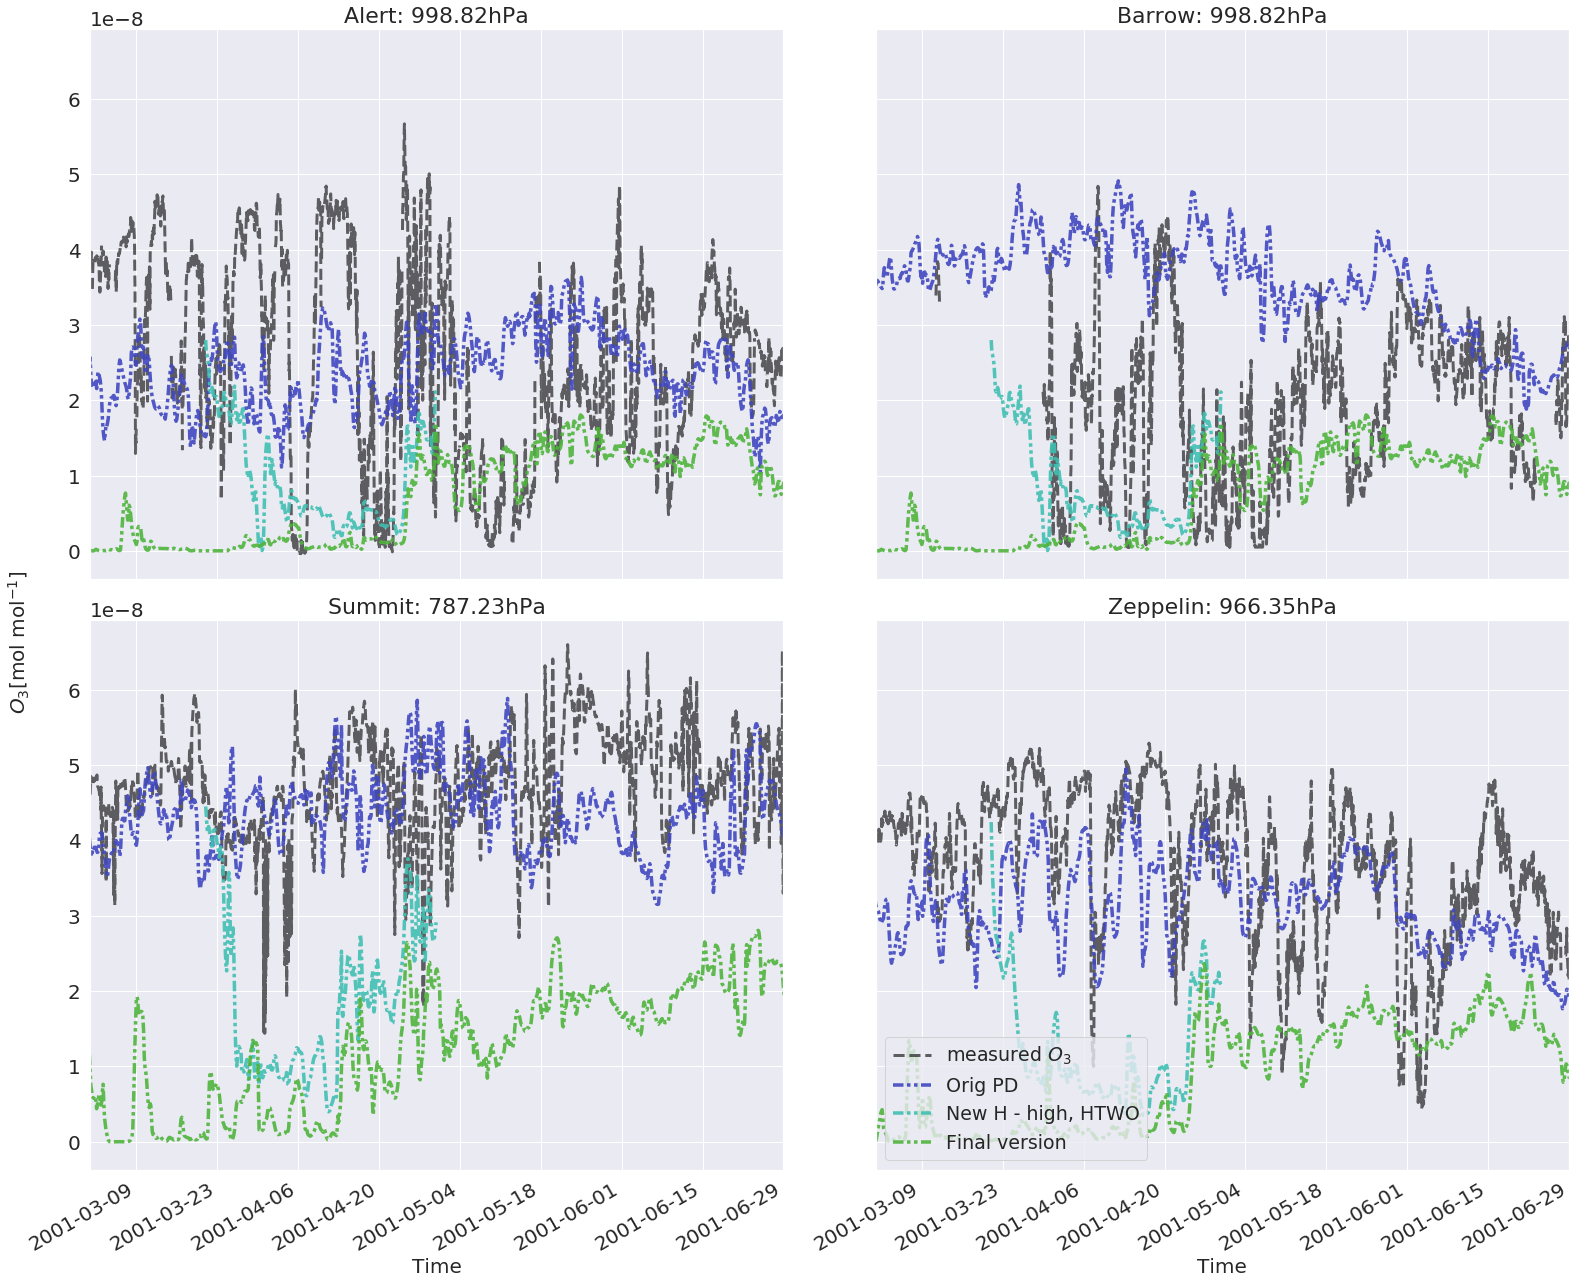
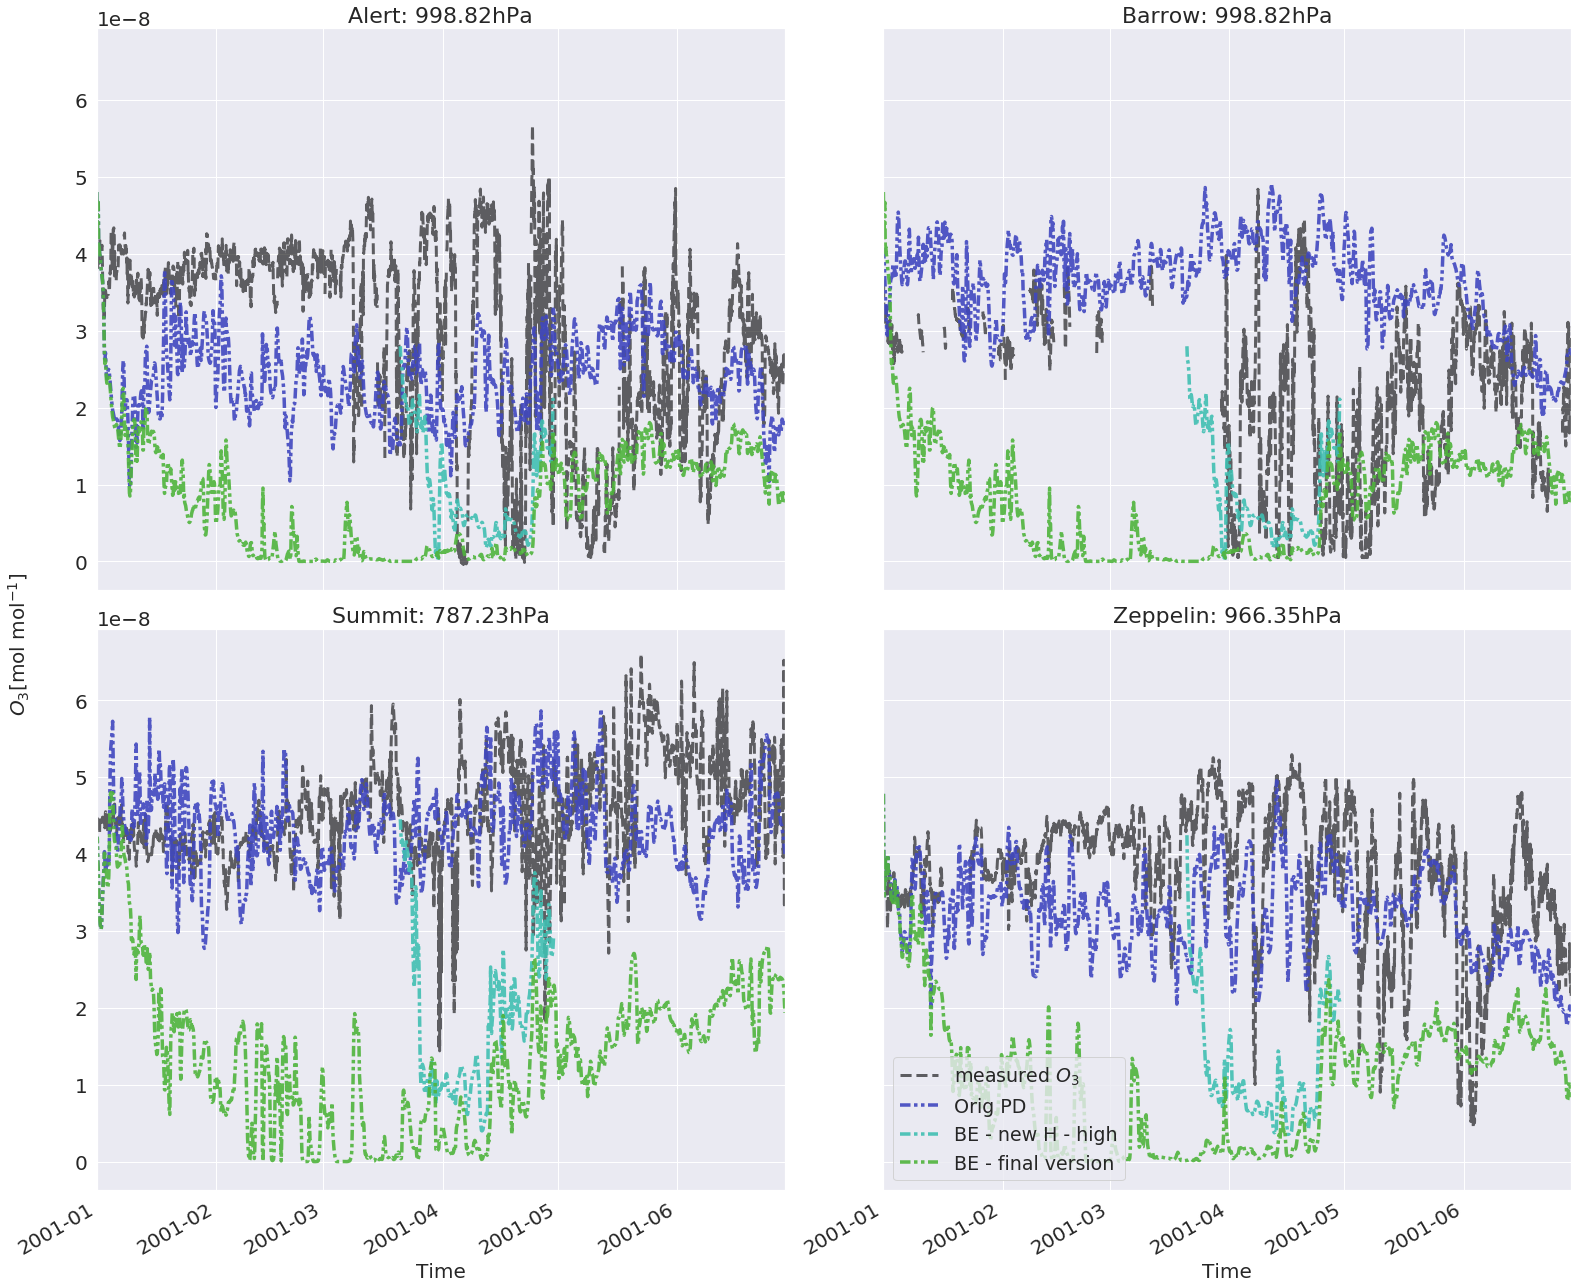
18/5/20 - nummer 2

diff --git a/Chapter6_Results/Results.tex b/Chapter6_Results/Results.tex
@@ -105,7 +105,7 @@ Figure \ref{fig:ozone_noCl_step2} contains results from different attempts to bo
 
 \medskip
 
-Figure \ref{fig:vertHBr_newRestart} (see Appendix \ref{app:CTM3_dev}) contains the resulting \chem{HBr}-column above Alert, Barrow, Summit and Zeppelin up to approximately $600$ hPa. The mixing ratio is on the order of $25 - 250$ ppt maximum. The higher concentrations appear to be constrained to the lower layers of the troposphere to various extents. In the lowest layer, Figure \ref{fig:polarHBr_newRestart} (see Appendix \ref{app:CTM3_dev}) shows that the concentrations are on the order of $7.5\times10^{-7} - 1.5\times10^{-6}$gm$^{-3}$. Seen in relation with Figure \ref{fig:polarHOBr_newRestart} (see Appendix \ref{app:CTM3_dev}), \ref{fig:polarHBr_newRestart} (see Appendix \ref{app:CTM3_dev}) is very anti-correlated. 
+Figure \ref{fig:vertHBr_newRestart} (see Appendix \ref{app:CTM3_dev}) contains the resulting \chem{HBr}-column above Alert, Barrow, Summit and Zeppelin up to approximately $600$ hPa. The mixing ratio is on the order of $25 - 250$ ppt maximum. The higher concentrations appear to be constrained to the lower layers of the troposphere to various extents. In the lowest layer, Figure \ref{fig:polarHBr_newRestart} (see Appendix \ref{app:CTM3_dev}) shows that the concentrations are on the order of $7.5\times10^{-7} - 1.5\times10^{-6}$gm$^{-3}$. Seen in relation with Figure \ref{fig:polarHOBr_newRestart}, \ref{fig:polarHBr_newRestart} (see Appendix \ref{app:CTM3_dev}) is very anti-correlated. 
 
 
 
@@ -113,6 +113,7 @@ Figure \ref{fig:vertHBr_newRestart} (see Appendix \ref{app:CTM3_dev}) contains t
 
 The polar \chem{BrO}-column depicted in Figure \ref{fig:polarBro_newRestart} shows a \acrshort{vcd} on the order of $10^7 \text{molecules }$ cm$^{-2}$. 
 
+\clearpage
 \subsubsection{Hard-Coding Photodissociation and Adjusting the Henry'Law Coefficient}\label{sec:res_step3}
 
 Figure \ref{fig:ozone_2001_step3} contains the modelled results from four new tests, whereas the original CTM3-run and the New Restart run was maintained from the previous section. Firstly, the Hard-coded P test was performed by hard-coding the photodissociation rates in \texttt{pchemc\_ij.f90}. In addition to this, two reactions were added in an attempt to better cycle the \chem{HOBr} and \chem{HBr} to avoid the anti-correlation seen in Figures \ref{fig:polarHBr_newRestart}-\ref{fig:polarHOBr_newRestart}:  
@@ -167,18 +168,12 @@ Figure \ref{fig:ozone_2001_step3} shows that the new tests ozone produce a lower
 
 \medskip
 
-Figure \ref{fig:vertHBr_HTWO_step3} contains the vertical column of the \chem{HBr} mixing ratio at \texttt{HTWO} resolution. The mixing ratio remains around $3\times10^{-10}$ mol mol$^{-1}$ (300 ppt) for both the tests. Likewise, Figure \ref{fig:polarHBr_HTWO_step3} contains concentrations of \chem{HBr} on the order of $6\times10^{-6} $g m$^{-3}$. The concentration of \chem{HOBr} is shown in Figure \ref{fig:polarHOBr_HTWO_step3}. The same anti-correlation is shown between \chem{HBr} and \chem{HOBr} as in the previous section. 
-
-
-
+Figure \ref{fig:vertHBr_HTWO_step3} (see Appendix \ref{app:CTM3_dev}) contains the vertical column of the \chem{HBr} mixing ratio at \texttt{HTWO} resolution. The mixing ratio remains around $3\times10^{-10}$ mol mol$^{-1}$ (300 ppt) for both the tests. Likewise, Figure \ref{fig:polarHBr_HTWO_step3} (see Appendix \ref{app:CTM3_dev}) contains concentrations of \chem{HBr} on the order of $6\times10^{-6} $g m$^{-3}$. The concentration of \chem{HOBr} is shown in Figure \ref{fig:polarHOBr_HTWO_step3} (see Appendix \ref{app:CTM3_dev}). The same anti-correlation is shown between \chem{HBr} and \chem{HOBr} as in the previous section. 
 
 \medskip
 
 The \chem{BrO} \acrshort{vcd} is shown in Figure \ref{fig:polarBrO_HTWO_step3}. The  \acrshort{vcd} now has a maximum of about $3\times10^8$ molecules cm$^{-2}$. 
 
-
-
-\clearpage
 \subsubsection{Changing Henry's law coefficient and photodissociation of \chem{HOBr}}\label{sec:res_step4}
 
 Due to issues regarding making a final production run (i.e. running the CTM3 for 6 months) (the problems and discussion concerning this are outlined in the Discussion Section \ref{sec:disc_step4}), Branch \ref{def:BE_PD_noCl} was altered yet again with a new Henry's law constant for the wet deposition of \chem{HBr} taken from \cite{Sander99}: 
@@ -198,7 +193,7 @@ This branch was initialized with the restart file provided from \cite{StefaniePe
 
 \medskip
 
-The resulting ozone mixing ratio at the four stations can be seen in Figure \ref{fig:ozone_2001_step4}. The black and blue line represents the measured ozone and the results from the original CTM3, respectively. The turquoise line represents the result maintained from the section above, which was ran at \texttt{HTWO}-resolution and was supposed to be the basis for the final production run. Finally, the green line represents the actual production run, in which the differences are explained above. In the first time period, the ozone mixing ratio produced by the final version is quite a lot lower than the observations. Toward the end of April, the content seems to stabilize more with mixing ratios comparable to measurements at Alert and Barrow, and to some extents at Zeppelin, but much lower than what's measured at Summit. 
+The resulting ozone mixing ratio at the four stations can be seen in Figure \ref{fig:ozone_2001_step4}. The black and blue line represents the measured ozone and the results from the original CTM3, respectively. The turquoise line represents the result maintained from the section above, which was ran at \texttt{HTWO}-resolution and was supposed to be the basis for the final production run. Finally, the green line represents the actual production run, in which the differences are explained above. The final version initially produces mixing ratios comparable to both the original CTM3 and the observations. Over the course of February to mid-April, however, the ozone mixing ratio produced by the final version is quite a lot lower than the observations. Towards the end of April, the content seems to stabilize more with mixing ratios comparable to measurements at Alert and Barrow, and to some extents at Zeppelin, but much lower than what's measured at Summit. 
 
 
 \input{Chapter6_Results/images/ozone_2001_step4}
@@ -283,11 +278,22 @@ In Figure \ref{fig:polarBrO_step4}, the resulting  \chem{BrO}-\acrshort{vcd} is 
 %\subsubsection{Test at HTWO}
 
 %This was with both hard-coded photodissosiation rates and higher Henry coefficient C3RUN\_BE\_HTWO\_HX\_HDP\_MarchApril
+\clearpage
 
 \section{Analysis of the Final Version of the Halogen Branch}\label{sec:res_final_Version}
 
-\input{Chapter6_Results/images/ozone_2001_step5}
+This section contains the analysis of the final version of the halogen branch (Branch \ref{def:BE_PD_noCl} presented in Section \ref{sec:res_step4} above)(from now on called the BE-branch) and the original CTM3-branch (Branch \ref{def:origCTM3_PD}). A 6-month production run was made for both the BE-branch and the original CTM3-branch, both initiated from Stefanie Falk's restart file (\cite{StefaniePersonal}). 
+
+\medskip
+
+Figure \ref{fig:ozone_2001_step4} in the previous section contains the full time series of the ozone mixing ratio with the BE-branch, the original CTM3 branch and observational data from Alert, Barrow, Summit and Zeppelin. Figure \ref{fig:AprMar_step5} contains the same branches (except the test-branch in Figure \ref{fig:ozone_2001_step4}), although zoomed in on the end of April through June, as the BE-branch seemingly stabilized in this period. It is clear form this figure that the BE-branch produces lower ozone mixing ratios than the original CTM3-branch. Also, the measurements are generally higher than what's produced by the BE-branch. The exceptions are at the beginning of May at Alert,  and the end of April/beginning of May at Barrow.
+
+%\input{Chapter6_Results/images/ozone_2001_step5}
 \input{Chapter6_Results/images/ozone_2001_AprMay_step5}
+
+\medskip 
+
+Figure \ref{fig:scatter_FebApr} and \ref{fig:scatter_AprMay} contains scatterplots to visualise agreements between the original CTM3, the BE-branch and the observational data. They are divided into two periods to separate the BE-branch results before stabilization and after, respectively. 
 
 \input{Chapter6_Results/images/scatter_feb_apr}
 \input{Chapter6_Results/images/scatter_april_june}

diff --git a/Chapter6_Results/images/scatter_april_june.tex b/Chapter6_Results/images/scatter_april_june.tex
@@ -1,6 +1,6 @@
-\begin{figure}[h]
+\begin{figure}[ht]
     \centering
     \includegraphics[width = \linewidth]{Chapter6_Results/images/scatter_april_june.png}
-    \caption{scatter}
+    \caption{Measured $\chem{O_3}$ vs. modelled results from the original CTM3 (green, "Measured - original CTM3") and modelled results from the BE-branch (blue, "Measured - BE") at the four stations, Summit, Alert, Barrow and Zeppelin (model results taken from the station's approximate altitude) from the period: April 25th - June 30th}
     \label{fig:scatter_AprMay}
 \end{figure}

diff --git a/Chapter6_Results/images/scatter_feb_apr.tex b/Chapter6_Results/images/scatter_feb_apr.tex
@@ -1,6 +1,6 @@
-\begin{figure}[h]
+\begin{figure}[ht]
     \centering
     \includegraphics[width = \linewidth]{Chapter6_Results/images/scatter_feb_apr.png}
-    \caption{scatter}
+    \caption{Measured $\chem{O_3}$ vs. modelled results from the original CTM3 (green, "Measured - original CTM3") and modelled results from the BE-branch (blue, "Measured - BE") at the four stations, Summit, Alert, Barrow and Zeppelin (model results taken from the station's approximate altitude) from the period: February 1st - April 24th}
     \label{fig:scatter_FebApr}
 \end{figure}

diff --git a/Appendix/Appendix.tex b/Appendix/Appendix.tex
@@ -6,6 +6,7 @@
 
 \input{Appendix/images/resolution_map_global}
 
+\clearpage
 \section{Supporting Figures From Litterature}\label{app:supp_fig}
 
 \input{Appendix/images/Hossaini_fig5}
@@ -205,7 +206,7 @@ The \acrshort{cdo}-scripts were adapted from scripts provided by \cite{StefanieP
 
 \chapter{Additional Results}\label{chap:add_res}
 
-\subsection{CTM3 Developement}\label{app:CTM3_dev}
+\section{CTM3 Developement}\label{app:CTM3_dev}
 
 \input{Chapter6_Results/images/vertHBr_noCl}
 
